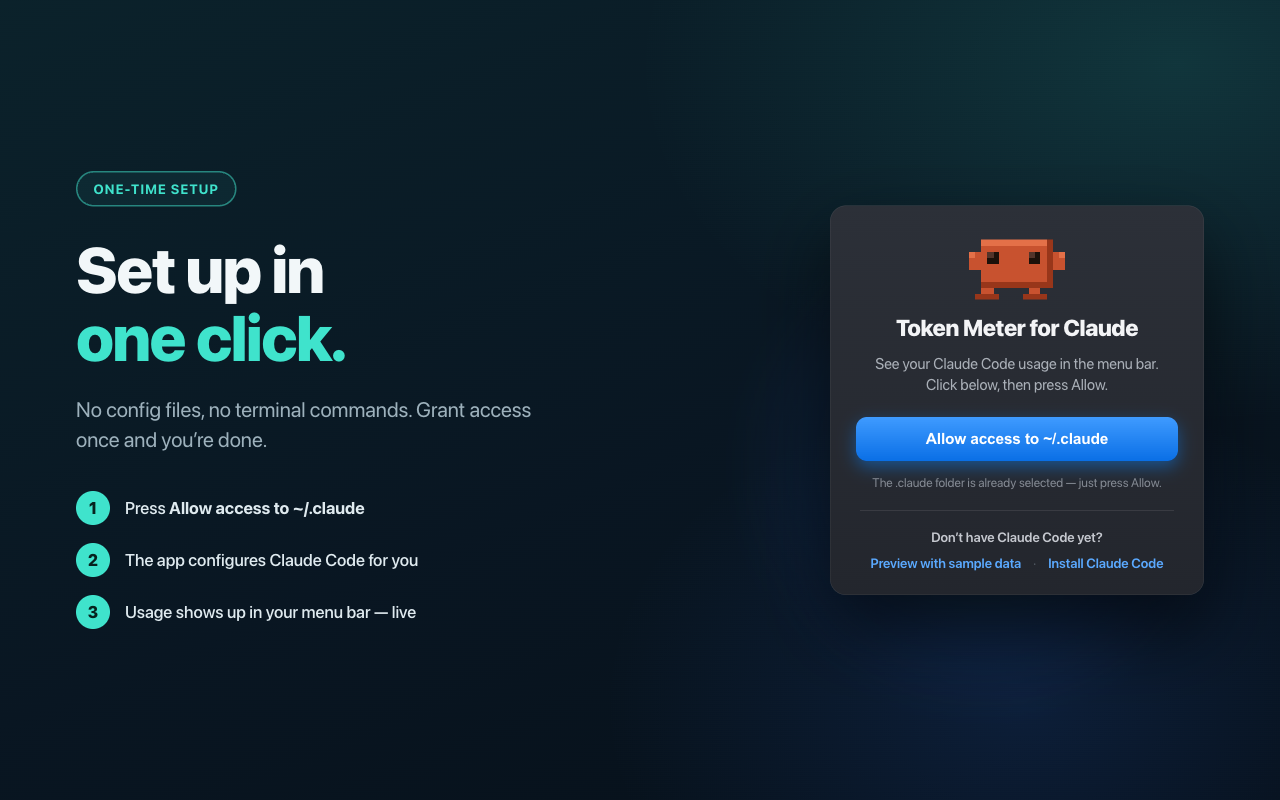
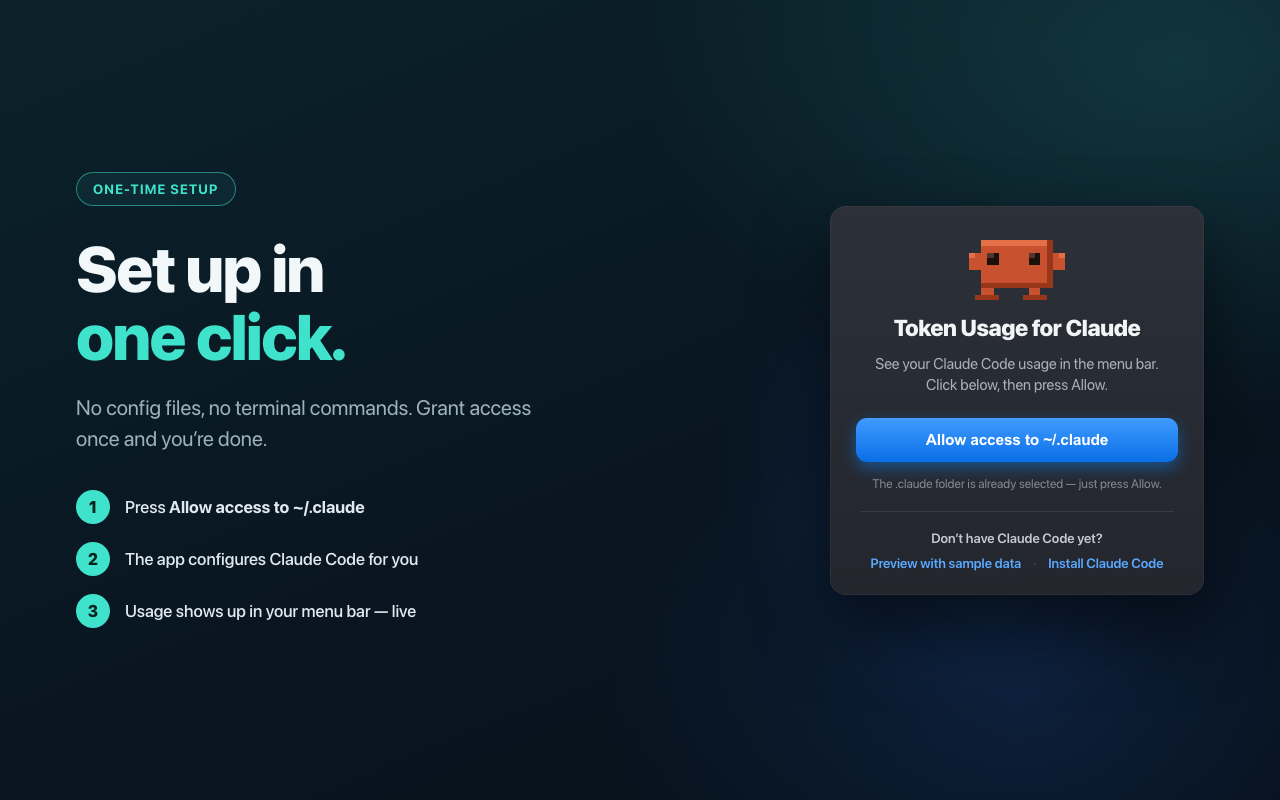
Rename to "Token Usage for Claude"; Contact UX + App Store prep
Rename:
- App service name "Token Meter for Claude" -> "Token Usage for Claude"
  and PRODUCT_NAME "Token Meter" -> "Token Usage" (bundle is now
  "Token Usage.app"). Bundle ID com.simvibe.ClaudeUsage and the internal
  Xcode target name "ClaudeUsage" are unchanged.
- Swept all user-visible strings: Info.plist, README, HANDOFF, sources
  (About/Onboarding/HookInstaller/MenuContentView), metadata, and
  regenerated the 02_onboarding screenshot (name was baked into the image).

Contact UX:
- Remove the "Contact Us" mailto button from the dropdown footer (spam
  concern) and drop the now-unused contactSupport(); add a small "Contact"
  link in the About popup pointing to https://keyz.dev/contact/.

App Store metadata/SEO (metadata/AppStore.md, source of truth):
- Note that search indexes name+subtitle+keywords only (not description).
- Subtitle and keyword recommendations tuned for "claude" / "claude usage".

Distribution config:
- project.yml: set DEVELOPMENT_TEAM and bump CURRENT_PROJECT_VERSION to 4
  (build 3 was already uploaded).

diff --git a/Sources/ClaudeUsage/MenuContentView.swift b/Sources/ClaudeUsage/MenuContentView.swift
@@ -136,11 +136,6 @@ struct MenuContentView: View {
                 }
                 .buttonStyle(MenuRowButtonStyle())
 
-                Button { contactSupport() } label: {
-                    HStack { Text("Contact Us"); Spacer() }
-                }
-                .buttonStyle(MenuRowButtonStyle())
-
                 Divider()
                     .padding(.horizontal, 5)
                     .padding(.vertical, 3)
@@ -198,12 +193,6 @@ struct MenuContentView: View {
 
     private func showAbout() {
         AboutPanel.show()
-    }
-
-    private func contactSupport() {
-        if let url = URL(string: "mailto:[email redacted]?subject=Token%20Meter%20for%20Claude") {
-            NSWorkspace.shared.open(url)
-        }
     }
 
     private func formatReset(_ epoch: TimeInterval) -> String {

diff --git a/Sources/ClaudeUsage/AboutView.swift b/Sources/ClaudeUsage/AboutView.swift
@@ -18,7 +18,7 @@ struct AboutView: View {
         VStack(spacing: 12) {
             RobotIcon(frameIndex: 0, size: 64)
 
-            Text("Token Meter for Claude")
+            Text("Token Usage for Claude")
                 .font(.headline)
 
             Text("Version \(version)")
@@ -31,6 +31,14 @@ struct AboutView: View {
                     .foregroundStyle(.tertiary)
                     .multilineTextAlignment(.center)
             }
+
+            Button("Contact") {
+                if let url = URL(string: "https://keyz.dev/contact/") {
+                    NSWorkspace.shared.open(url)
+                }
+            }
+            .buttonStyle(.link)
+            .font(.caption)
 
             Button(action: onOK) {
                 Text("OK")

diff --git a/Sources/ClaudeUsage/OnboardingView.swift b/Sources/ClaudeUsage/OnboardingView.swift
@@ -11,7 +11,7 @@ struct OnboardingView: View {
         VStack(spacing: 16) {
             RobotIcon(frameIndex: 0, size: 56)
 
-            Text("Token Meter for Claude")
+            Text("Token Usage for Claude")
                 .font(.title2.bold())
 
             Text("See your Claude Code usage in the menu bar. Click below, then press Allow.")
@@ -91,7 +91,7 @@ struct OnboardingView: View {
         panel.canChooseDirectories = true
         panel.allowsMultipleSelection = false
         panel.canCreateDirectories = false
-        panel.title = "Token Meter — Grant Access"
+        panel.title = "Token Usage — Grant Access"
         panel.message = "Press Allow to grant access to the .claude folder shown."
         panel.prompt = "Allow"
         panel.showsHiddenFiles = true

diff --git a/Sources/ClaudeUsage/HookInstaller.swift b/Sources/ClaudeUsage/HookInstaller.swift
@@ -5,7 +5,7 @@ enum HookInstaller {
     // (which is absent on Macs without Xcode Command Line Tools) is required.
     static let hookScriptContent = """
     #!/bin/bash
-    # Installed by Token Meter for Claude
+    # Installed by Token Usage for Claude
     input=$(cat)
     widgets="$HOME/.claude/widgets"
     mkdir -p "$widgets"

diff --git a/metadata/screenshots/src/02_onboarding.html b/metadata/screenshots/src/02_onboarding.html
@@ -53,7 +53,7 @@ h1 .accent{color:var(--teal);}
   <div class="right">
     <div class="card">
       <img class="robot" src="robot_glyph.png">
-      <div class="name">Token Meter for Claude</div>
+      <div class="name">Token Usage for Claude</div>
       <div class="desc">See your Claude Code usage in the menu bar.<br>Click below, then press Allow.</div>
       <button class="btn">Allow access to ~/.claude</button>
       <div class="hint">The .claude folder is already selected — just press Allow.</div>

diff --git a/metadata/AppStore.md b/metadata/AppStore.md
@@ -1,4 +1,4 @@
-# App Store Metadata — Token Meter for Claude
+# App Store Metadata — Token Usage for Claude
 
 Source of truth for the Mac App Store listing copy. Paste into App Store Connect
 (app ID `6773230249`). Character counts are App Store hard limits — stay at or
@@ -19,7 +19,8 @@ under them. Locale: **en** (`CFBundleDevelopmentRegion=en`).
 4. 🟡 **Content Rights** (App Information) — currently NOT set up. Set to "does not
    contain, show, or access third-party content" (the app shows only the user's own
    local usage data). Required before submission.
-5. 🟢 **Subtitle** — KEEP current `Claude Code usage monitor` (good — see below).
+5. 🟡 **Subtitle** — CHANGE `Claude Code usage monitor` → `Claude usage menu bar monitor`
+   (lead with the exact priority phrase "Claude usage"; see below).
 6. 🟢 **Secondary category** — optional: add **Productivity**.
 7. 🟢 **Promotional Text** — current copy is good; keep.
 8. ⚠️ **Support contact email** — `[email redacted]` → `[email redacted]`.
@@ -31,19 +32,34 @@ under them. Locale: **en** (`CFBundleDevelopmentRegion=en`).
 ## App Name — limit 30
 
 ```
-Token Meter for Claude
+Token Usage for Claude
 ```
 `22/30` ✓ — matches `CFBundleDisplayName`. Do **not** change.
 
-## Subtitle — limit 30  →  KEEP CURRENT
+> ### 🔎 How App Store search actually indexes (read first)
+> Apple indexes **only three fields** for search: **app name**, **subtitle**, and the
+> **keywords field**. The **description and promotional text are NOT indexed for search**
+> — they only affect conversion *after* a user finds the listing. So all discovery SEO
+> lives in name + subtitle + keywords; Apple unions the words across the three and also
+> rewards exact-phrase + early-position matches.
+>
+> **Target queries (per product decision): `claude` and `claude usage`.** The app name
+> `Token Usage for Claude` already carries *both* target words in the highest-weight
+> field, so "claude usage" is matched at the word level out of the box. The subtitle is
+> then tuned to surface the **exact adjacent phrase "Claude usage" first**, which is the
+> strongest ranking signal for that query.
 
-**Current (live) — keep:**
+## Subtitle — limit 30  →  CHANGE
+
+**Recommended (replace current `Claude Code usage monitor`):**
 ```
-Claude Code usage monitor
+Claude usage menu bar monitor
 ```
-`25/30` ✓ — indexes claude, code, usage, monitor. This is the right call: "token" is
-already in the **app name**, so spending the subtitle on "monitor" (a search term the
-name/keywords don't otherwise cover) is more efficient than repeating "token".
+`29/30` ✓ — opens with the exact target phrase **"Claude usage"** (adjacent + first =
+best signal for the priority query), then adds `menu` + `bar` + `monitor`. Drops `code`
+vs the old subtitle — recovered in the keywords field below (most users search `claude`
+/ `claude usage`, not `claude code`, so spend the highest-weight field on the priority
+phrase).
 
 ## Keywords — limit 100 (comma-separated, NO spaces after commas)
 
@@ -52,22 +68,29 @@ name/keywords don't otherwise cover) is more efficient than repeating "token".
 Problems with the live set:
 - `claude`, `anthropic`, `claude code` → **third-party trademarks as standalone
   keywords** = common rejection (Guideline 2.3.7 / 5.2.5). Remove.
-- `claude`, `token` → already in the **app name**, which Apple indexes separately →
-  duplicates, wasted space.
+- `claude`, `token`, `usage` → already in the **app name** (and `usage` again in the
+  subtitle), which Apple indexes separately → duplicates, wasted space.
 - `ai monitor` → a fixed phrase; Apple auto-combines standalone words, so
   `AI` + `monitor` as separate terms reaches more queries.
 
 **Recommended (replace with this):**
 ```
-rate limit,menu bar,menubar,tracker,quota,AI,CLI,developer,statusline,session,coding,widget,context
+code,rate limit,tracker,quota,menubar,AI,CLI,developer,statusline,session,widget,context
 ```
-`99/100` ✓ — no trademarks, no duplication with name/subtitle.
+`95/100` ✓ — no trademarks, no duplication with name/subtitle. `code` here recombines
+with `claude` from the name to still cover **"claude code"**; `menubar` (no space)
+catches the unspaced search variant of the subtitle's "menu bar".
 
-> Keyword principle: Apple already indexes every word in the **name** (token, meter,
-> claude) and **subtitle** (claude, code, usage, monitor) — search uses name + subtitle
-> + keywords combined. Never repeat those 6 words here. Note `monitor` is intentionally
-> dropped from keywords because it's now covered by the subtitle; the freed space goes
-> to `widget` + `context`.
+> Keyword principle: Apple already indexes every word in the **name** (token, usage,
+> claude) and **subtitle** (claude, usage, menu, bar, monitor) — search unions name +
+> subtitle + keywords. Never repeat those words in the keywords field.
+>
+> **On the top-priority `claude` query:** "claude" is intentionally kept OUT of the
+> keywords field. It already sits in the **app name** — the single highest-weight,
+> already-indexed placement — so it ranks for "claude" without a keyword entry. Adding
+> standalone `claude` to keywords adds the 2.3.7/5.2.5 trademark-rejection risk for only
+> marginal weight gain. If you decide the "claude" rank is worth that risk, the lowest-
+> risk lever is the subtitle/description phrasing (descriptive use), not a bare keyword.
 
 ## Promotional Text — limit 170 (editable anytime, NO review needed)
 
@@ -82,7 +105,7 @@ Monitor your Claude Code token usage right from the menu bar. See your 5-hour se
 Live copy is strong. Only two adds: the demo-mode line (helps reviewers) and the
 non-affiliation footer (trademark safety). Final:
 ```
-Token Meter for Claude shows your Claude Code token usage directly in your Mac menu bar — no tab switching, no commands to run.
+Token Usage for Claude shows your Claude Code token usage directly in your Mac menu bar — no tab switching, no commands to run.
 
 WHAT IT SHOWS
 • Current session (5-hour rolling window) — percentage used and time until reset
@@ -106,7 +129,7 @@ REQUIREMENTS
 • Claude Code CLI installed (claude.ai/code)
 
 —
-Token Meter for Claude is an independent app and is not affiliated with, endorsed by, or sponsored by Anthropic. "Claude" is a trademark of Anthropic, PBC, used here to describe compatibility.
+Token Usage for Claude is an independent app and is not affiliated with, endorsed by, or sponsored by Anthropic. "Claude" is a trademark of Anthropic, PBC, used here to describe compatibility.
 ```
 ≈ `1050/4000` ✓ — additions vs live are **bold-italic** in the action list above.
 
@@ -114,7 +137,7 @@ Token Meter for Claude is an independent app and is not affiliated with, endorse
 
 For the **1.0** initial release:
 ```
-Initial release. Token Meter shows your Claude Code session and weekly token usage right in the menu bar.
+Initial release. Token Usage for Claude shows your Claude Code session and weekly token usage right in the menu bar.
 ```
 
 ---
@@ -142,7 +165,7 @@ Initial release. Token Meter shows your Claude Code session and weekly token usa
 ```
 This app displays Claude Code CLI token-usage data and requires the Claude Code CLI to be installed to show live data. Reviewers without Claude Code installed can tap "Preview with sample data" on the onboarding screen to see the full interface with demo data.
 
-Token Meter is an independent app, not affiliated with Anthropic. "Claude" is used only to describe compatibility.
+Token Usage for Claude is an independent app, not affiliated with Anthropic. "Claude" is used only to describe compatibility.
 ```
 
 ## Screenshots

diff --git a/HANDOFF.md b/HANDOFF.md
@@ -1,4 +1,4 @@
-# Token Meter for Claude — Handoff
+# Token Usage for Claude — Handoff
 
 macOS menu bar app that shows Claude Code token usage (5-hour session + 7-day
 weekly), reading the same rate-limit data Claude Code's `/usage` reports. This is
@@ -12,8 +12,8 @@ a native SwiftUI rewrite of an earlier SwiftBar + Python widget. **Target: Mac A
 | Local path | `~/Developer/ClaudeUsage` |
 | App Store Connect | Apple app ID **`6773230249`** · Team **Gwangseop Shim** (personal account) |
 | Bundle ID | `com.simvibe.ClaudeUsage` — **App Store identity, do NOT change** (also keyed to the saved folder-access bookmark) |
-| User-facing name | "Token Meter for Claude" (`CFBundleDisplayName` + App Store listing name) |
-| Bundle / executable / `PRODUCT_NAME` | **`Token Meter`** → bundle is `Token Meter.app`. No "ClaudeUsage" string is user-visible. |
+| User-facing name | "Token Usage for Claude" (`CFBundleDisplayName` + App Store listing name) |
+| Bundle / executable / `PRODUCT_NAME` | **`Token Usage`** → bundle is `Token Usage.app`. No "ClaudeUsage" string is user-visible. |
 | Internal Xcode target / scheme | `ClaudeUsage` (dev-only, not in the bundle, not user-visible) |
 | Copyright | `Copyright © 2026 Keyz. All rights reserved.` |
 | Support email | `[email redacted]` (Contact Us → mailto) |
@@ -52,7 +52,7 @@ xcodebuild -project ClaudeUsage.xcodeproj -scheme ClaudeUsage -configuration Deb
   CODE_SIGN_STYLE=Manual CODE_SIGN_IDENTITY="-" \
   CODE_SIGNING_REQUIRED=NO CODE_SIGNING_ALLOWED=YES \
   ENABLE_HARDENED_RUNTIME=NO build
-open "build/Build/Products/Debug/Token Meter.app"
+open "build/Build/Products/Debug/Token Usage.app"
 ```
 
 `CODE_SIGN_IDENTITY="-"` = ad-hoc "Sign to Run Locally"; sandbox + security-scoped
@@ -78,8 +78,8 @@ killall cfprefsd
 - **App icon** — full 1024px icon set is committed under
   `Sources/ClaudeUsage/Assets.xcassets/AppIcon.appiconset` and bundled
   (`AppIcon.icns` + `Assets.car`). *(Was the #1 remaining item — now done.)*
-- **Name unified** — `PRODUCT_NAME = "Token Meter"`; no "ClaudeUsage" string is
-  user-visible. Display/App Store name stays "Token Meter for Claude".
+- **Name unified** — `PRODUCT_NAME = "Token Usage"`; no "ClaudeUsage" string is
+  user-visible. Display/App Store name is "Token Usage for Claude".
 - `plutil` hook (python3 dependency removed).
 - `used_percentage` decoded as **Double** — Claude Code sends fractional values;
   Int decoding silently dropped the whole payload.

diff --git a/README.md b/README.md
@@ -1,4 +1,4 @@
-# Token Meter for Claude
+# Token Usage for Claude
 
 A macOS menu bar app that shows your Claude Code token usage in real time.
 